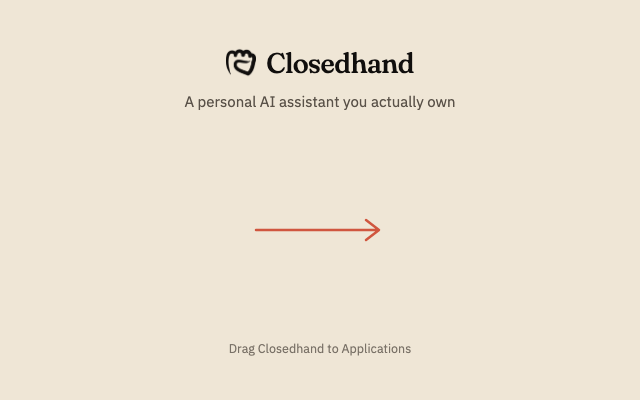
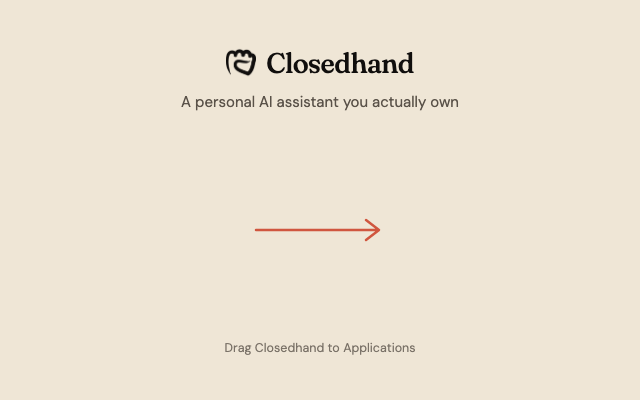
The app's text is DM Sans too: dashboard, setup, web chat, sign-in, pages and the Mac download window
Every app page, both stylesheets, the page and project views, and the Mac
download window's background (re-rendered for both marks with the new
brand.py build-dmg) load and use DM Sans, as closedhand.com now does. Every
rule keeps a sans-serif fallback. IBM Plex Mono stays for addresses and code.

Changed region(s): [[0.3438, 0.84, 0.6562, 0.9], [0.2812, 0.24, 0.7188, 0.27]]

diff --git a/webapp/views/index.html b/webapp/views/index.html
@@ -8,7 +8,7 @@
 <link rel="icon" href="/favicon.svg" type="image/svg+xml">
 <link rel="preconnect" href="https://fonts.googleapis.com">
 <link rel="preconnect" href="https://fonts.gstatic.com" crossorigin>
-<link href="https://fonts.googleapis.com/css2?family=IBM+Plex+Sans:wght@300;400;500;600;700&family=Fraunces:ital,opsz,wght,SOFT@0,9..144,300..900,0..100;1,9..144,300..900,0..100&display=swap" rel="stylesheet">
+<link href="https://fonts.googleapis.com/css2?family=DM+Sans:opsz,wght@9..40,300..700&family=Fraunces:ital,opsz,wght,SOFT@0,9..144,300..900,0..100;1,9..144,300..900,0..100&display=swap" rel="stylesheet">
 <style>
   :root {
     --text-primary: rgba(var(--fg-rgb),0.92);
@@ -19,7 +19,7 @@
     --border-default: rgba(var(--fg-rgb),0.1);
     --accent-dim: rgba(var(--accent-strong-rgb),0.15);
     /* Headlines speak in the wordmark's face; everything else is the interface family. */
-    --font-body: 'IBM Plex Sans', system-ui, sans-serif;
+    --font-body: 'DM Sans', system-ui, sans-serif;
     --font-display: var(--font-brand);
 
     /* The web chat's sizes. The conversation is part of the app, so it uses
@@ -59,7 +59,7 @@
   body {
     background: var(--bg);
     color: var(--fg);
-    font-family: 'IBM Plex Sans', system-ui, sans-serif;
+    font-family: 'DM Sans', system-ui, sans-serif;
     overflow-x: hidden;
   }
   body.chat-active { overflow: hidden; height: 100dvh; }
@@ -400,7 +400,7 @@
     border: none;
     outline: none;
     color: var(--fg);
-    font-family: 'IBM Plex Sans', sans-serif;
+    font-family: 'DM Sans', sans-serif;
     font-size: 18px;
     font-weight: 300;
     resize: none;
@@ -483,7 +483,7 @@
     background: rgba(var(--fg-rgb),0.08);
     border: 1px solid rgba(var(--fg-rgb),0.12);
     color: rgba(var(--fg-rgb),0.5);
-    font-family: 'IBM Plex Sans', sans-serif;
+    font-family: 'DM Sans', sans-serif;
     font-size: 15px;
     font-weight: 400;
     cursor: default;
@@ -520,7 +520,7 @@
   .cat-pill {
     padding: 8px 16px; background: rgba(var(--fg-rgb),0.04);
     border: 1px solid rgba(var(--fg-rgb),0.08); border-radius: 12px;
-    color: rgba(var(--fg-rgb),0.5); font-family: 'IBM Plex Sans', sans-serif;
+    color: rgba(var(--fg-rgb),0.5); font-family: 'DM Sans', sans-serif;
     font-size: 13px; cursor: pointer; transition: all 0.2s;
     display: flex; align-items: center; gap: 6px; white-space: nowrap; flex-shrink: 0;
     min-height: 44px;
@@ -538,7 +538,7 @@
   .cat-prompts.open { display: flex; max-height: 60px; opacity: 1; margin-top: 4px; }
   .suggestion-btn {
     padding: 8px 16px; background: none; border: none; border-left: 2px solid rgba(var(--fg-rgb),0.06);
-    color: rgba(var(--fg-rgb),0.5); font-family: 'IBM Plex Sans', sans-serif;
+    color: rgba(var(--fg-rgb),0.5); font-family: 'DM Sans', sans-serif;
     font-size: 13px; cursor: pointer; transition: all 0.2s; text-align: left;
     white-space: nowrap; flex-shrink: 0; min-height: 44px;
   }
@@ -1003,7 +1003,7 @@
   .timeline {
     position: relative;
     padding-left: 20px;
-    font-family: 'IBM Plex Sans', sans-serif;
+    font-family: 'DM Sans', sans-serif;
   }
   .timeline::before {
     content: '';
@@ -1695,7 +1695,7 @@
     padding: 16px 32px;
     border-radius: 14px;
     font-size: 17px;
-    font-family: 'IBM Plex Sans', sans-serif;
+    font-family: 'DM Sans', sans-serif;
     font-weight: 500;
     text-decoration: none;
     transition: all 0.2s;

diff --git a/webapp/views/keep.html b/webapp/views/keep.html
@@ -1,4 +1,4 @@
-<!doctype html><html lang="en"><head><meta charset="utf-8"><meta name="viewport" content="width=device-width,initial-scale=1"><script src="/theme.js"></script><meta name="theme-color" content="#100E0D"><meta name="referrer" content="no-referrer"><link rel="manifest" href="/manifest.webmanifest"><link rel="apple-touch-icon" href="/logocircle.png"><link href="https://fonts.googleapis.com/css2?family=IBM+Plex+Sans:wght@400;500;600&family=Fraunces:opsz,wght,SOFT@9..144,500,30&display=swap" rel="stylesheet"><link rel="stylesheet" href="/interface.css"><link rel="stylesheet" href="/keep.css"><title>Your personal URL | Closedhand</title><link rel="icon" href="/favicon.svg" type="image/svg+xml"></head><body><main><a class="ch-brand" href="/"><img src="/fist.png" alt=""><span>Closedhand</span></a><h1>Your personal Closedhand URL</h1><p>Open Closedhand from any device, wherever you are.</p>
+<!doctype html><html lang="en"><head><meta charset="utf-8"><meta name="viewport" content="width=device-width,initial-scale=1"><script src="/theme.js"></script><meta name="theme-color" content="#100E0D"><meta name="referrer" content="no-referrer"><link rel="manifest" href="/manifest.webmanifest"><link rel="apple-touch-icon" href="/logocircle.png"><link href="https://fonts.googleapis.com/css2?family=DM+Sans:opsz,wght@9..40,400..600&family=Fraunces:opsz,wght,SOFT@9..144,500,30&display=swap" rel="stylesheet"><link rel="stylesheet" href="/interface.css"><link rel="stylesheet" href="/keep.css"><title>Your personal URL | Closedhand</title><link rel="icon" href="/favicon.svg" type="image/svg+xml"></head><body><main><a class="ch-brand" href="/"><img src="/fist.png" alt=""><span>Closedhand</span></a><h1>Your personal Closedhand URL</h1><p>Open Closedhand from any device, wherever you are.</p>
 <div id="loading">Loading your personal URL…</div>
 <div id="setup" hidden><p id="setup-copy">Claim your personal URL in Settings before saving a shortcut.</p><a class="cta" href="/dashboard#dashboard-link">Open Personal URL settings</a></div>
 <div id="ready" hidden>

diff --git a/webapp/projects.js b/webapp/projects.js
@@ -408,13 +408,13 @@ function shell(title, inner) {
 <meta name="viewport" content="width=device-width,initial-scale=1,viewport-fit=cover">
 <title>${esc(title)}</title>
 <link rel="icon" href="/favicon.svg" type="image/svg+xml">
-<link rel="stylesheet" href="https://fonts.googleapis.com/css2?family=IBM+Plex+Sans:wght@400;500;600;700&display=swap">
+<link rel="stylesheet" href="https://fonts.googleapis.com/css2?family=DM+Sans:opsz,wght@9..40,400..700&display=swap">
 <style>
 :root { --bg: #EFE6D6; --raised: #F7F1E7; --fg: #1A1817; --fg-rgb: 26,24,23; --muted: #5E574F; --accent: #C4513B; --accent-rgb: 196,81,59; --ok: #4E7F3A; --ok-rgb: 78,127,58; --warn: #8A6416; --warn-rgb: 138,100,22; color-scheme: light; }
 @media (prefers-color-scheme: dark) { :root:not([data-theme-pick="light"]) { --bg: #100E0D; --raised: #1A1817; --fg: #EFE6D6; --fg-rgb: 239,230,214; --muted: #B6AFA4; --accent: #D8624B; --accent-rgb: 216,98,75; --ok: #8DBD79; --ok-rgb: 141,189,121; --warn: #D0A652; --warn-rgb: 208,166,82; color-scheme: dark; } }
 :root[data-theme-pick="dark"] { --bg: #100E0D; --raised: #1A1817; --fg: #EFE6D6; --fg-rgb: 239,230,214; --muted: #B6AFA4; --accent: #D8624B; --accent-rgb: 216,98,75; --ok: #8DBD79; --ok-rgb: 141,189,121; --warn: #D0A652; --warn-rgb: 208,166,82; color-scheme: dark; }
 * { box-sizing: border-box; }
-body { margin: 0; background: var(--bg); color: var(--fg); font: 16px/1.6 "IBM Plex Sans", system-ui, -apple-system, sans-serif; padding: max(18px, env(safe-area-inset-top)) 16px 56px; -webkit-font-smoothing: antialiased; }
+body { margin: 0; background: var(--bg); color: var(--fg); font: 16px/1.6 "DM Sans", system-ui, -apple-system, sans-serif; padding: max(18px, env(safe-area-inset-top)) 16px 56px; -webkit-font-smoothing: antialiased; }
 main { max-width: 880px; margin: 0 auto; }
 a { color: inherit; }
 .bar { display: flex; align-items: center; justify-content: space-between; gap: 12px; padding-bottom: 16px; border-bottom: 1px solid rgba(var(--fg-rgb),0.12); }

diff --git a/webapp/report-page.js b/webapp/report-page.js
@@ -105,13 +105,13 @@ function shell(title, inner) {
 <meta name="viewport" content="width=device-width,initial-scale=1,viewport-fit=cover">
 <title>${esc(title)}</title>
 <link rel="icon" href="/favicon.svg" type="image/svg+xml">
-<link rel="stylesheet" href="https://fonts.googleapis.com/css2?family=IBM+Plex+Sans:wght@400;500;600&family=Fraunces:opsz,wght@9..144,500;9..144,600&display=swap">
+<link rel="stylesheet" href="https://fonts.googleapis.com/css2?family=DM+Sans:opsz,wght@9..40,400..600&family=Fraunces:opsz,wght@9..144,500;9..144,600&display=swap">
 <style>
 :root { --bg: #f7f3ee; --fg: #241c18; --muted: #75685f; --line: #e3dbd2; --accent: #b9452f; --head: #efe7de; color-scheme: light; }
 @media (prefers-color-scheme: dark) { :root:not([data-theme-pick="light"]) { --bg: #141010; --fg: #efe6d6; --muted: #a2968b; --line: #2f2724; --accent: #d8624b; --head: #1f1917; color-scheme: dark; } }
 :root[data-theme-pick="dark"] { --bg: #141010; --fg: #efe6d6; --muted: #a2968b; --line: #2f2724; --accent: #d8624b; --head: #1f1917; color-scheme: dark; }
 * { box-sizing: border-box; }
-body { margin: 0; background: var(--bg); color: var(--fg); font: 16px/1.65 "IBM Plex Sans", system-ui, -apple-system, sans-serif; padding: max(20px, env(safe-area-inset-top)) 16px 64px; }
+body { margin: 0; background: var(--bg); color: var(--fg); font: 16px/1.65 "DM Sans", system-ui, -apple-system, sans-serif; padding: max(20px, env(safe-area-inset-top)) 16px 64px; }
 main { max-width: 760px; margin: 0 auto; }
 .bar { display: flex; flex-wrap: wrap; align-items: center; justify-content: space-between; gap: 12px; padding-bottom: 18px; margin-bottom: 26px; border-bottom: 1px solid var(--line); }
 .brand { display: flex; align-items: center; gap: 8px; color: var(--muted); font-size: 13px; text-decoration: none; }

diff --git a/desktop/dmg/background.html b/desktop/dmg/background.html
@@ -2,11 +2,11 @@
 <!-- The DMG window background. Rendered to background.png (640x400) and
      background@2x.png (1280x800) by screenshotting .bg in a browser at device
      scale 1 and 2. Icons sit where settings.py puts them: (170, 230) and (470, 230). -->
-<link href="https://fonts.googleapis.com/css2?family=IBM+Plex+Sans:wght@400;500&family=Fraunces:opsz,wght,SOFT@9..144,500,30&display=block" rel="stylesheet">
+<link href="https://fonts.googleapis.com/css2?family=DM+Sans:opsz,wght@9..40,400..500&family=Fraunces:opsz,wght,SOFT@9..144,500,30&display=block" rel="stylesheet">
 <style>
   html, body { margin: 0; }
   /* 640 x 400 points: the window. Icons sit at (170, 230) and (470, 230), 96 points. */
-  .bg { position: relative; width: 640px; height: 400px; background: #EFE6D6; overflow: hidden; font-family: 'IBM Plex Sans', sans-serif; color: #100E0D; }
+  .bg { position: relative; width: 640px; height: 400px; background: #EFE6D6; overflow: hidden; font-family: 'DM Sans', sans-serif; color: #100E0D; }
   .brand { position: absolute; top: 46px; left: 0; right: 0; display: flex; justify-content: center; align-items: center; gap: 10px; }
   .brand img { width: 30px; height: 33px; }
   .brand span { font: 500 28px/1 'Fraunces', serif; font-variation-settings: 'opsz' 48, 'SOFT' 30; letter-spacing: -0.02em; }

diff --git a/webapp/views/setup.html b/webapp/views/setup.html
@@ -8,7 +8,7 @@
   <link rel="icon" href="/favicon.svg" type="image/svg+xml">
   <link rel="preconnect" href="https://fonts.googleapis.com">
   <link rel="preconnect" href="https://fonts.gstatic.com" crossorigin>
-  <link href="https://fonts.googleapis.com/css2?family=IBM+Plex+Sans:wght@300;400;500;600&family=IBM+Plex+Mono:wght@400;500&family=Fraunces:ital,opsz,wght,SOFT@0,9..144,300..900,0..100;1,9..144,300..900,0..100&display=swap" rel="stylesheet">
+  <link href="https://fonts.googleapis.com/css2?family=DM+Sans:opsz,wght@9..40,300..600&family=IBM+Plex+Mono:wght@400;500&family=Fraunces:ital,opsz,wght,SOFT@0,9..144,300..900,0..100;1,9..144,300..900,0..100&display=swap" rel="stylesheet">
   <style>
     :root {
       --text-primary: rgba(var(--fg-rgb),0.92);
@@ -25,7 +25,7 @@
       --accent-dim: rgba(var(--accent-strong-rgb),0.15);
       --accent-faint: rgba(var(--accent-strong-rgb),0.07);
       --warn-dim: rgba(var(--warn-rgb),0.18);
-      --font-body: 'IBM Plex Sans', system-ui, sans-serif;
+      --font-body: 'DM Sans', system-ui, sans-serif;
       --font-display: 'Fraunces', ui-serif, Georgia, serif;
       --font-mono: 'IBM Plex Mono', ui-monospace, monospace;
       --rail-w: 84px;

diff --git a/webapp/views/moved.html b/webapp/views/moved.html
@@ -8,13 +8,13 @@
   <link rel="icon" href="/favicon.svg" type="image/svg+xml">
   <link rel="preconnect" href="https://fonts.googleapis.com">
   <link rel="preconnect" href="https://fonts.gstatic.com" crossorigin>
-  <link href="https://fonts.googleapis.com/css2?family=IBM+Plex+Sans:wght@300;400;500;600&family=Fraunces:ital,opsz,wght,SOFT@0,9..144,300..900,0..100;1,9..144,300..900,0..100&display=swap" rel="stylesheet">
+  <link href="https://fonts.googleapis.com/css2?family=DM+Sans:opsz,wght@9..40,300..600&family=Fraunces:ital,opsz,wght,SOFT@0,9..144,300..900,0..100;1,9..144,300..900,0..100&display=swap" rel="stylesheet">
   <link rel="stylesheet" href="/interface.css">
   <style>
     * { margin: 0; padding: 0; box-sizing: border-box; }
     body {
       background: var(--bg); color: rgba(var(--fg-rgb),0.92);
-      font-family: 'IBM Plex Sans', system-ui, sans-serif; font-size: 15px; line-height: 1.55;
+      font-family: 'DM Sans', system-ui, sans-serif; font-size: 15px; line-height: 1.55;
       min-height: 100vh; display: flex; align-items: center; justify-content: center; padding: 24px 16px;
       -webkit-font-smoothing: antialiased;
     }

diff --git a/webapp/views/sign-in-here.html b/webapp/views/sign-in-here.html
@@ -8,13 +8,13 @@
   <link rel="icon" href="/favicon.svg" type="image/svg+xml">
   <link rel="preconnect" href="https://fonts.googleapis.com">
   <link rel="preconnect" href="https://fonts.gstatic.com" crossorigin>
-  <link href="https://fonts.googleapis.com/css2?family=IBM+Plex+Sans:wght@300;400;500;600&family=Fraunces:ital,opsz,wght,SOFT@0,9..144,300..900,0..100;1,9..144,300..900,0..100&display=swap" rel="stylesheet">
+  <link href="https://fonts.googleapis.com/css2?family=DM+Sans:opsz,wght@9..40,300..600&family=Fraunces:ital,opsz,wght,SOFT@0,9..144,300..900,0..100;1,9..144,300..900,0..100&display=swap" rel="stylesheet">
   <link rel="stylesheet" href="/interface.css">
   <style>
     * { margin: 0; padding: 0; box-sizing: border-box; }
     body {
       background: var(--bg); color: rgba(var(--fg-rgb),0.92);
-      font-family: 'IBM Plex Sans', system-ui, sans-serif; font-size: 15px; line-height: 1.55;
+      font-family: 'DM Sans', system-ui, sans-serif; font-size: 15px; line-height: 1.55;
       min-height: 100vh; display: flex; align-items: center; justify-content: center; padding: 24px 16px;
       -webkit-font-smoothing: antialiased;
     }

diff --git a/webapp/views/login.html b/webapp/views/login.html
@@ -8,7 +8,7 @@
   <link rel="icon" href="/favicon.svg" type="image/svg+xml">
   <link rel="preconnect" href="https://fonts.googleapis.com">
   <link rel="preconnect" href="https://fonts.gstatic.com" crossorigin>
-  <link href="https://fonts.googleapis.com/css2?family=IBM+Plex+Sans:wght@300;400;500;600&family=Fraunces:ital,opsz,wght,SOFT@0,9..144,300..900,0..100;1,9..144,300..900,0..100&display=swap" rel="stylesheet">
+  <link href="https://fonts.googleapis.com/css2?family=DM+Sans:opsz,wght@9..40,300..600&family=Fraunces:ital,opsz,wght,SOFT@0,9..144,300..900,0..100;1,9..144,300..900,0..100&display=swap" rel="stylesheet">
   <link rel="stylesheet" href="/interface.css">
   <style>
     :root {
@@ -24,7 +24,7 @@
     * { margin: 0; padding: 0; box-sizing: border-box; }
     body {
       background: var(--bg); color: var(--text-primary);
-      font-family: 'IBM Plex Sans', system-ui, sans-serif; font-size: 15px;
+      font-family: 'DM Sans', system-ui, sans-serif; font-size: 15px;
       min-height: 100vh; display: flex; align-items: center; justify-content: center;
       -webkit-font-smoothing: antialiased;
     }

diff --git a/webapp/views/setup-code.html b/webapp/views/setup-code.html
@@ -8,7 +8,7 @@
   <link rel="icon" href="/favicon.svg" type="image/svg+xml">
   <link rel="preconnect" href="https://fonts.googleapis.com">
   <link rel="preconnect" href="https://fonts.gstatic.com" crossorigin>
-  <link href="https://fonts.googleapis.com/css2?family=IBM+Plex+Sans:wght@300;400;500;600&family=Fraunces:ital,opsz,wght,SOFT@0,9..144,300..900,0..100;1,9..144,300..900,0..100&display=swap" rel="stylesheet">
+  <link href="https://fonts.googleapis.com/css2?family=DM+Sans:opsz,wght@9..40,300..600&family=Fraunces:ital,opsz,wght,SOFT@0,9..144,300..900,0..100;1,9..144,300..900,0..100&display=swap" rel="stylesheet">
   <link rel="stylesheet" href="/interface.css">
   <style>
     :root {
@@ -24,7 +24,7 @@
     * { margin: 0; padding: 0; box-sizing: border-box; }
     body {
       background: var(--bg); color: var(--text-primary);
-      font-family: 'IBM Plex Sans', system-ui, sans-serif; font-size: 15px;
+      font-family: 'DM Sans', system-ui, sans-serif; font-size: 15px;
       min-height: 100vh; display: flex; align-items: center; justify-content: center;
       -webkit-font-smoothing: antialiased;
     }

diff --git a/webapp/views/dashboard.html b/webapp/views/dashboard.html
@@ -8,7 +8,7 @@
   <link rel="icon" href="/favicon.svg" type="image/svg+xml">
   <link rel="preconnect" href="https://fonts.googleapis.com">
   <link rel="preconnect" href="https://fonts.gstatic.com" crossorigin>
-  <link href="https://fonts.googleapis.com/css2?family=IBM+Plex+Sans:wght@300;400;500;600;700&family=Fraunces:ital,opsz,wght,SOFT@0,9..144,300..900,0..100;1,9..144,300..900,0..100&display=swap" rel="stylesheet">
+  <link href="https://fonts.googleapis.com/css2?family=DM+Sans:opsz,wght@9..40,300..700&family=Fraunces:ital,opsz,wght,SOFT@0,9..144,300..900,0..100;1,9..144,300..900,0..100&display=swap" rel="stylesheet">
   <link rel="stylesheet" href="/style.css">
   <link rel="stylesheet" href="/delight.css">
   <link rel="stylesheet" href="/skill-picker.css">

diff --git a/webapp/views/line-app.html b/webapp/views/line-app.html
@@ -6,7 +6,7 @@
   <title>Set up | Closedhand</title><link rel="icon" href="/favicon.svg" type="image/svg+xml">
   <link rel="preconnect" href="https://fonts.googleapis.com">
   <link rel="preconnect" href="https://fonts.gstatic.com" crossorigin>
-  <link href="https://fonts.googleapis.com/css2?family=IBM+Plex+Sans:wght@300;400;500;600;700&family=Fraunces:opsz,wght,SOFT@9..144,500,30&display=swap" rel="stylesheet">
+  <link href="https://fonts.googleapis.com/css2?family=DM+Sans:opsz,wght@9..40,300..700&family=Fraunces:opsz,wght,SOFT@9..144,500,30&display=swap" rel="stylesheet">
   <link rel="stylesheet" href="/interface.css">
   <script charset="utf-8" src="https://static.line-scdn.net/liff/edge/2/sdk.js"></script>
   <style>
